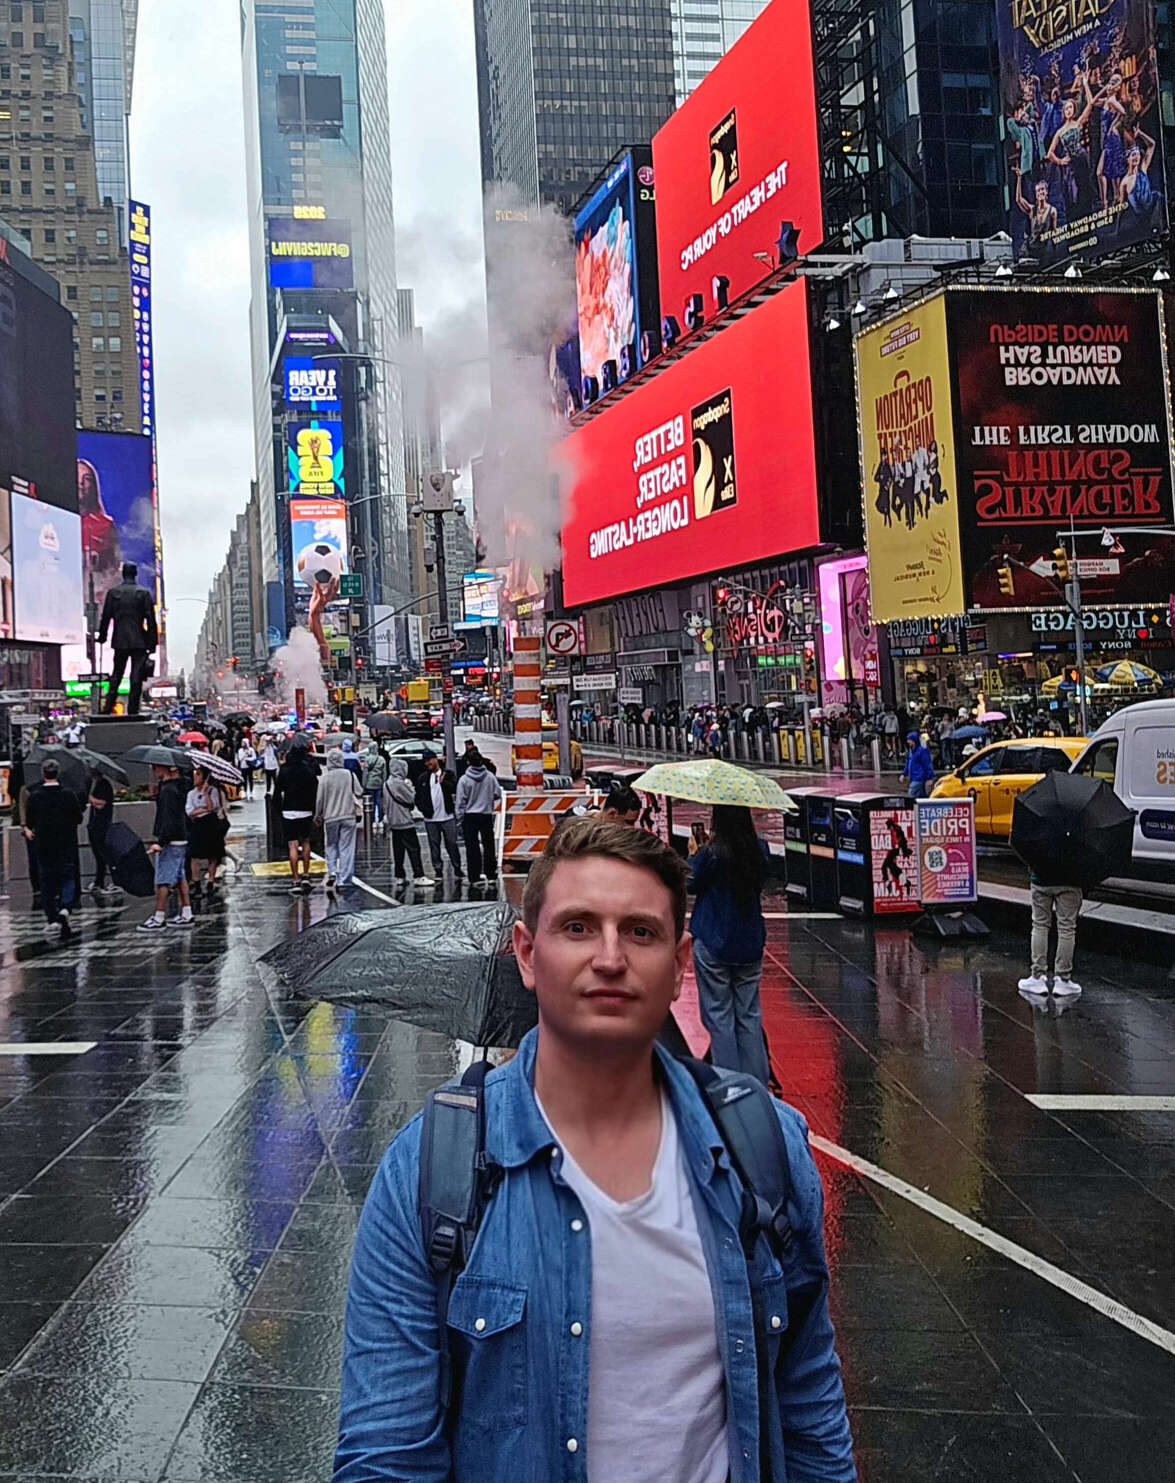
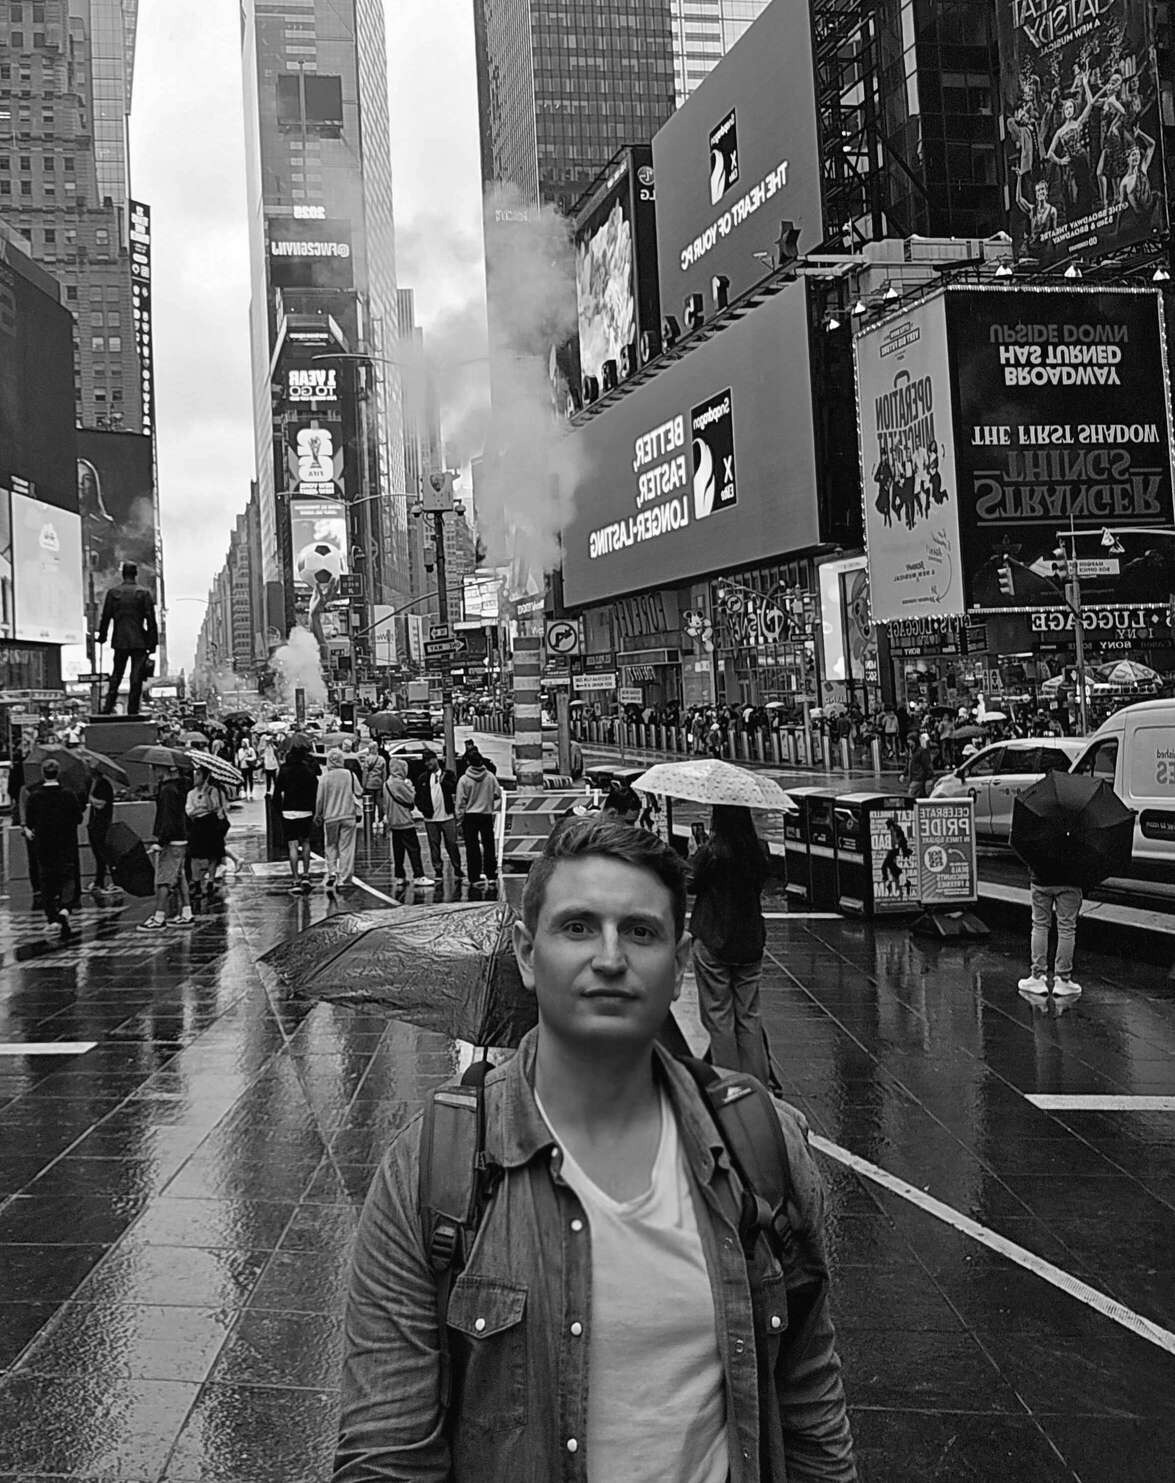
refactor: replace image with grayscale version, remove Tailwind hover styling
- Replace original image with pre-processed grayscale version
- Remove Tailwind CSS hover effects to avoid conflicts with GSAP
- Temporarily disable grayscale hover animation for performance
  optimization
- Keep grayscale image as static for now, will implement GSAP hover
  effects later

diff --git a/components/About.tsx b/components/About.tsx
@@ -14,6 +14,9 @@ const About = () => {
   const aboutRef = useRef<HTMLDivElement>(null);
 
   const mm = gsap.matchMedia();
+
+  useGSAP(() => {});
+
   useGSAP(
     () => {
       const mainAboutLn = gsap.timeline({
@@ -116,7 +119,7 @@ const About = () => {
           </p>
         </div>
         <div className="image_section">
-          <div className="image_wrapper relative grayscale transition-all duration-300 will-change-transform hover:grayscale-[0.25]">
+          <div className="image_wrapper relative">
             <Image
               src="/profile-picture.jpg"
               alt="Description of image"
